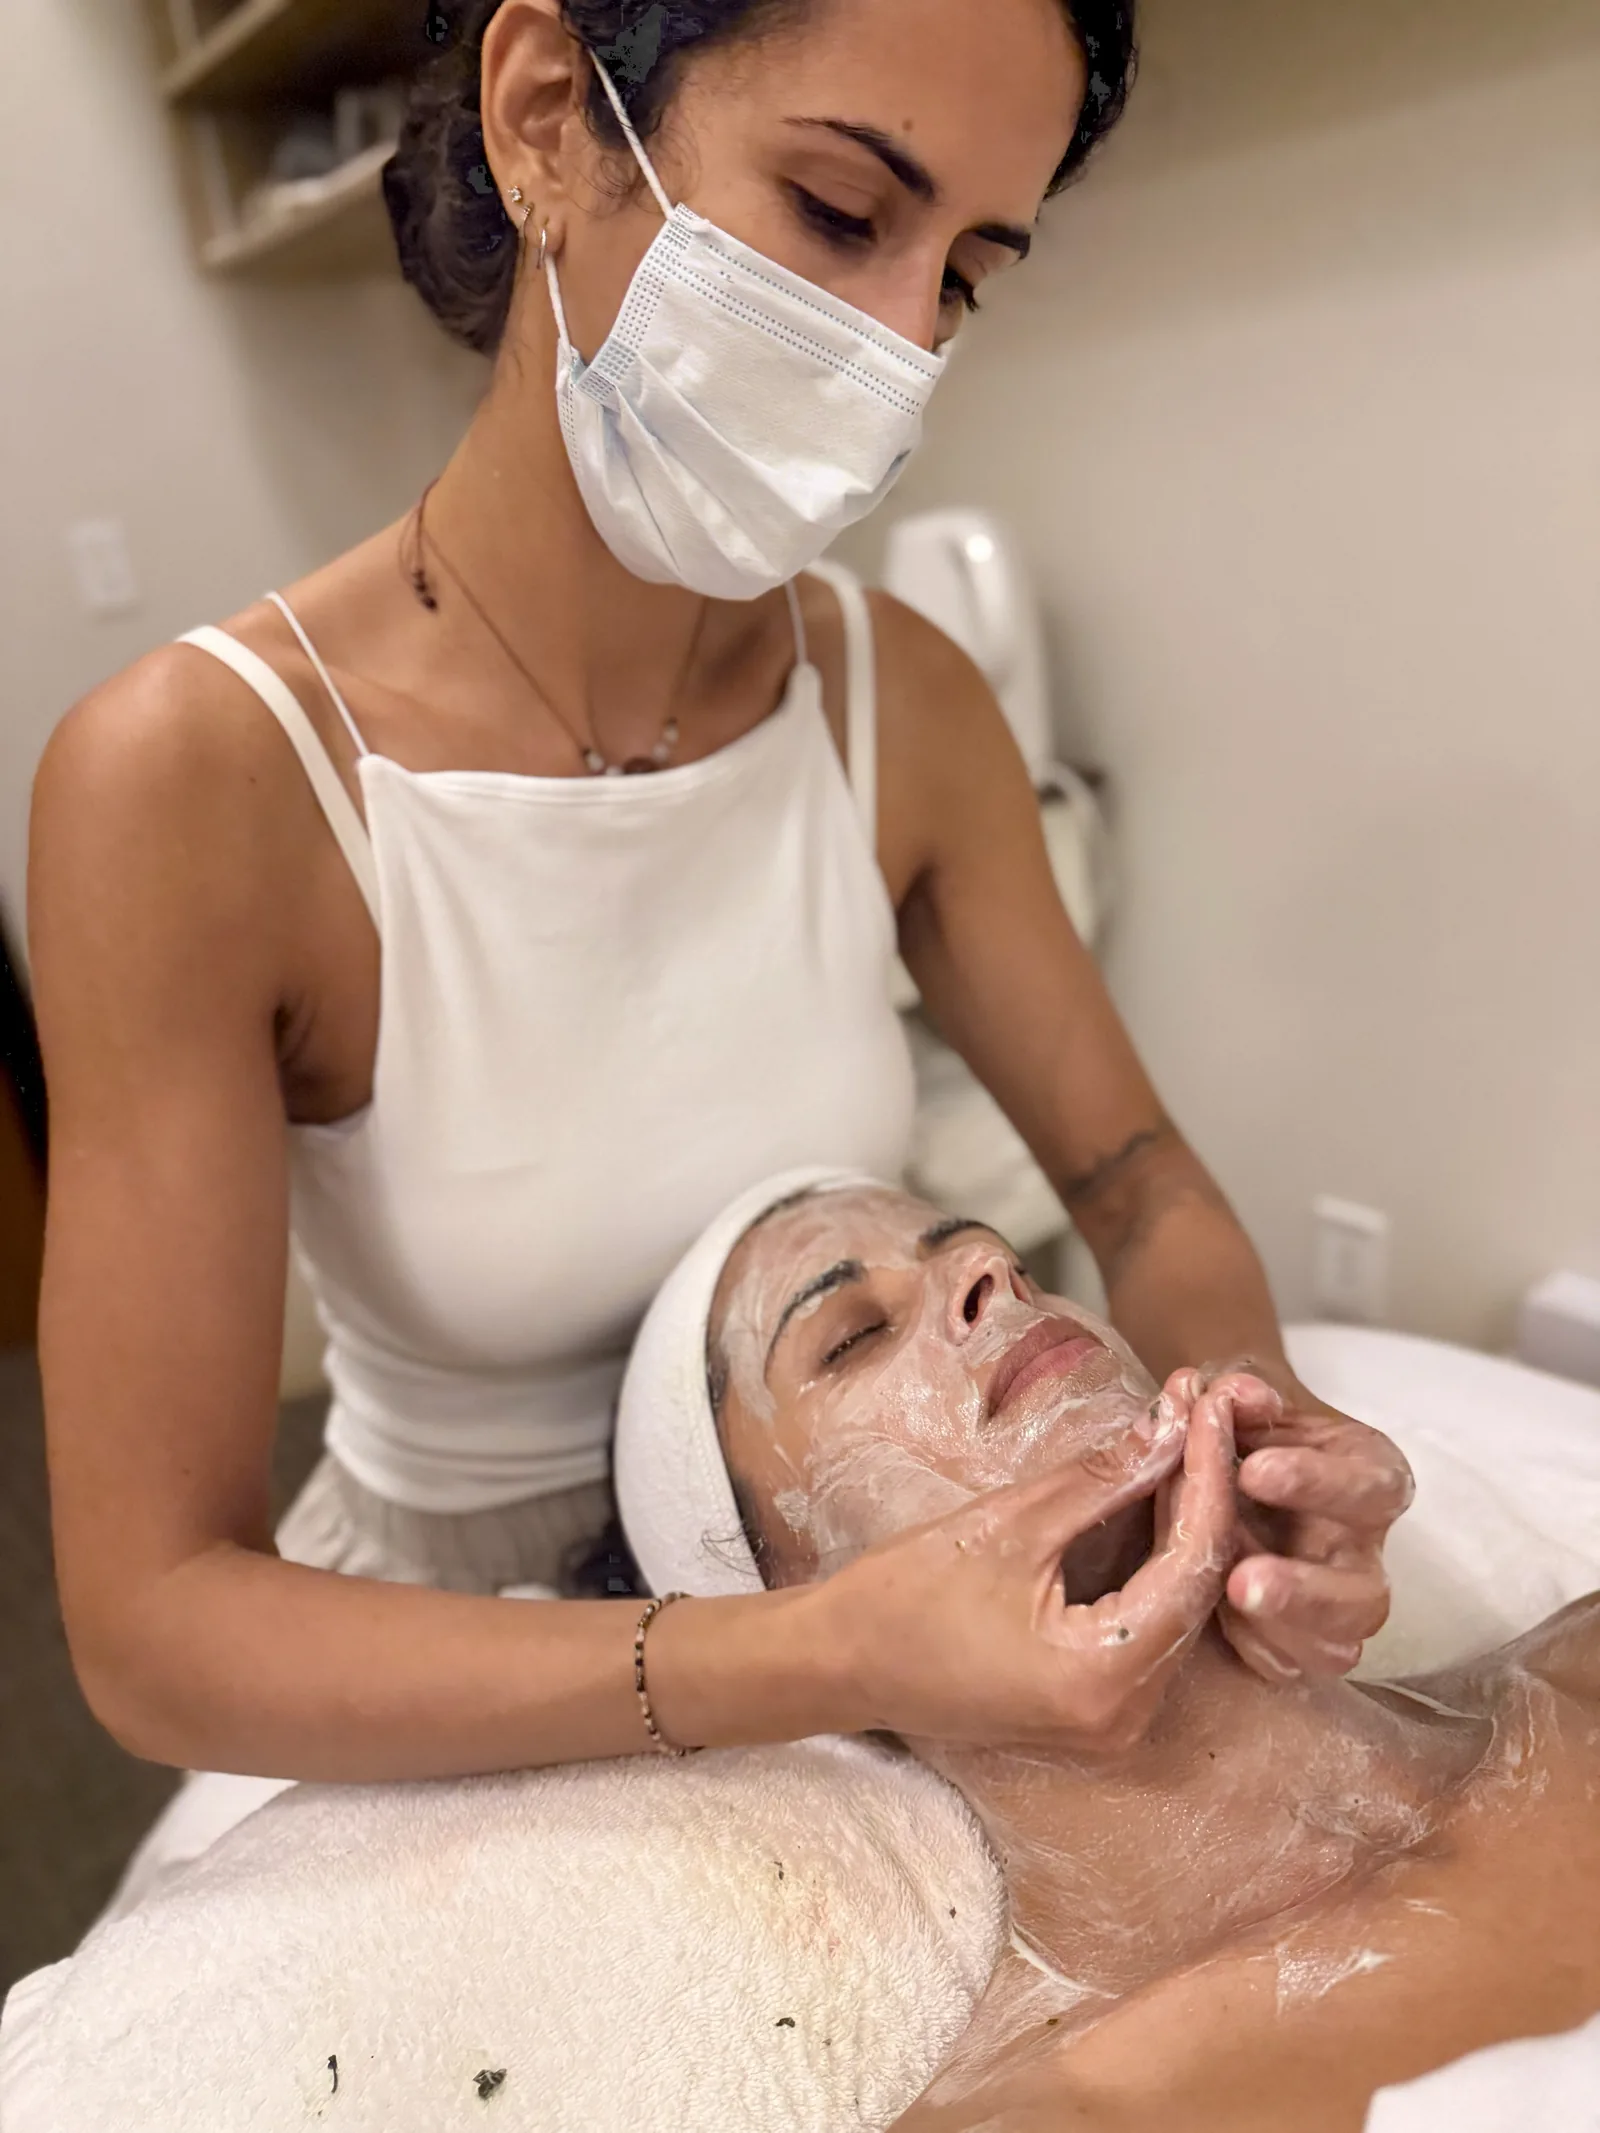
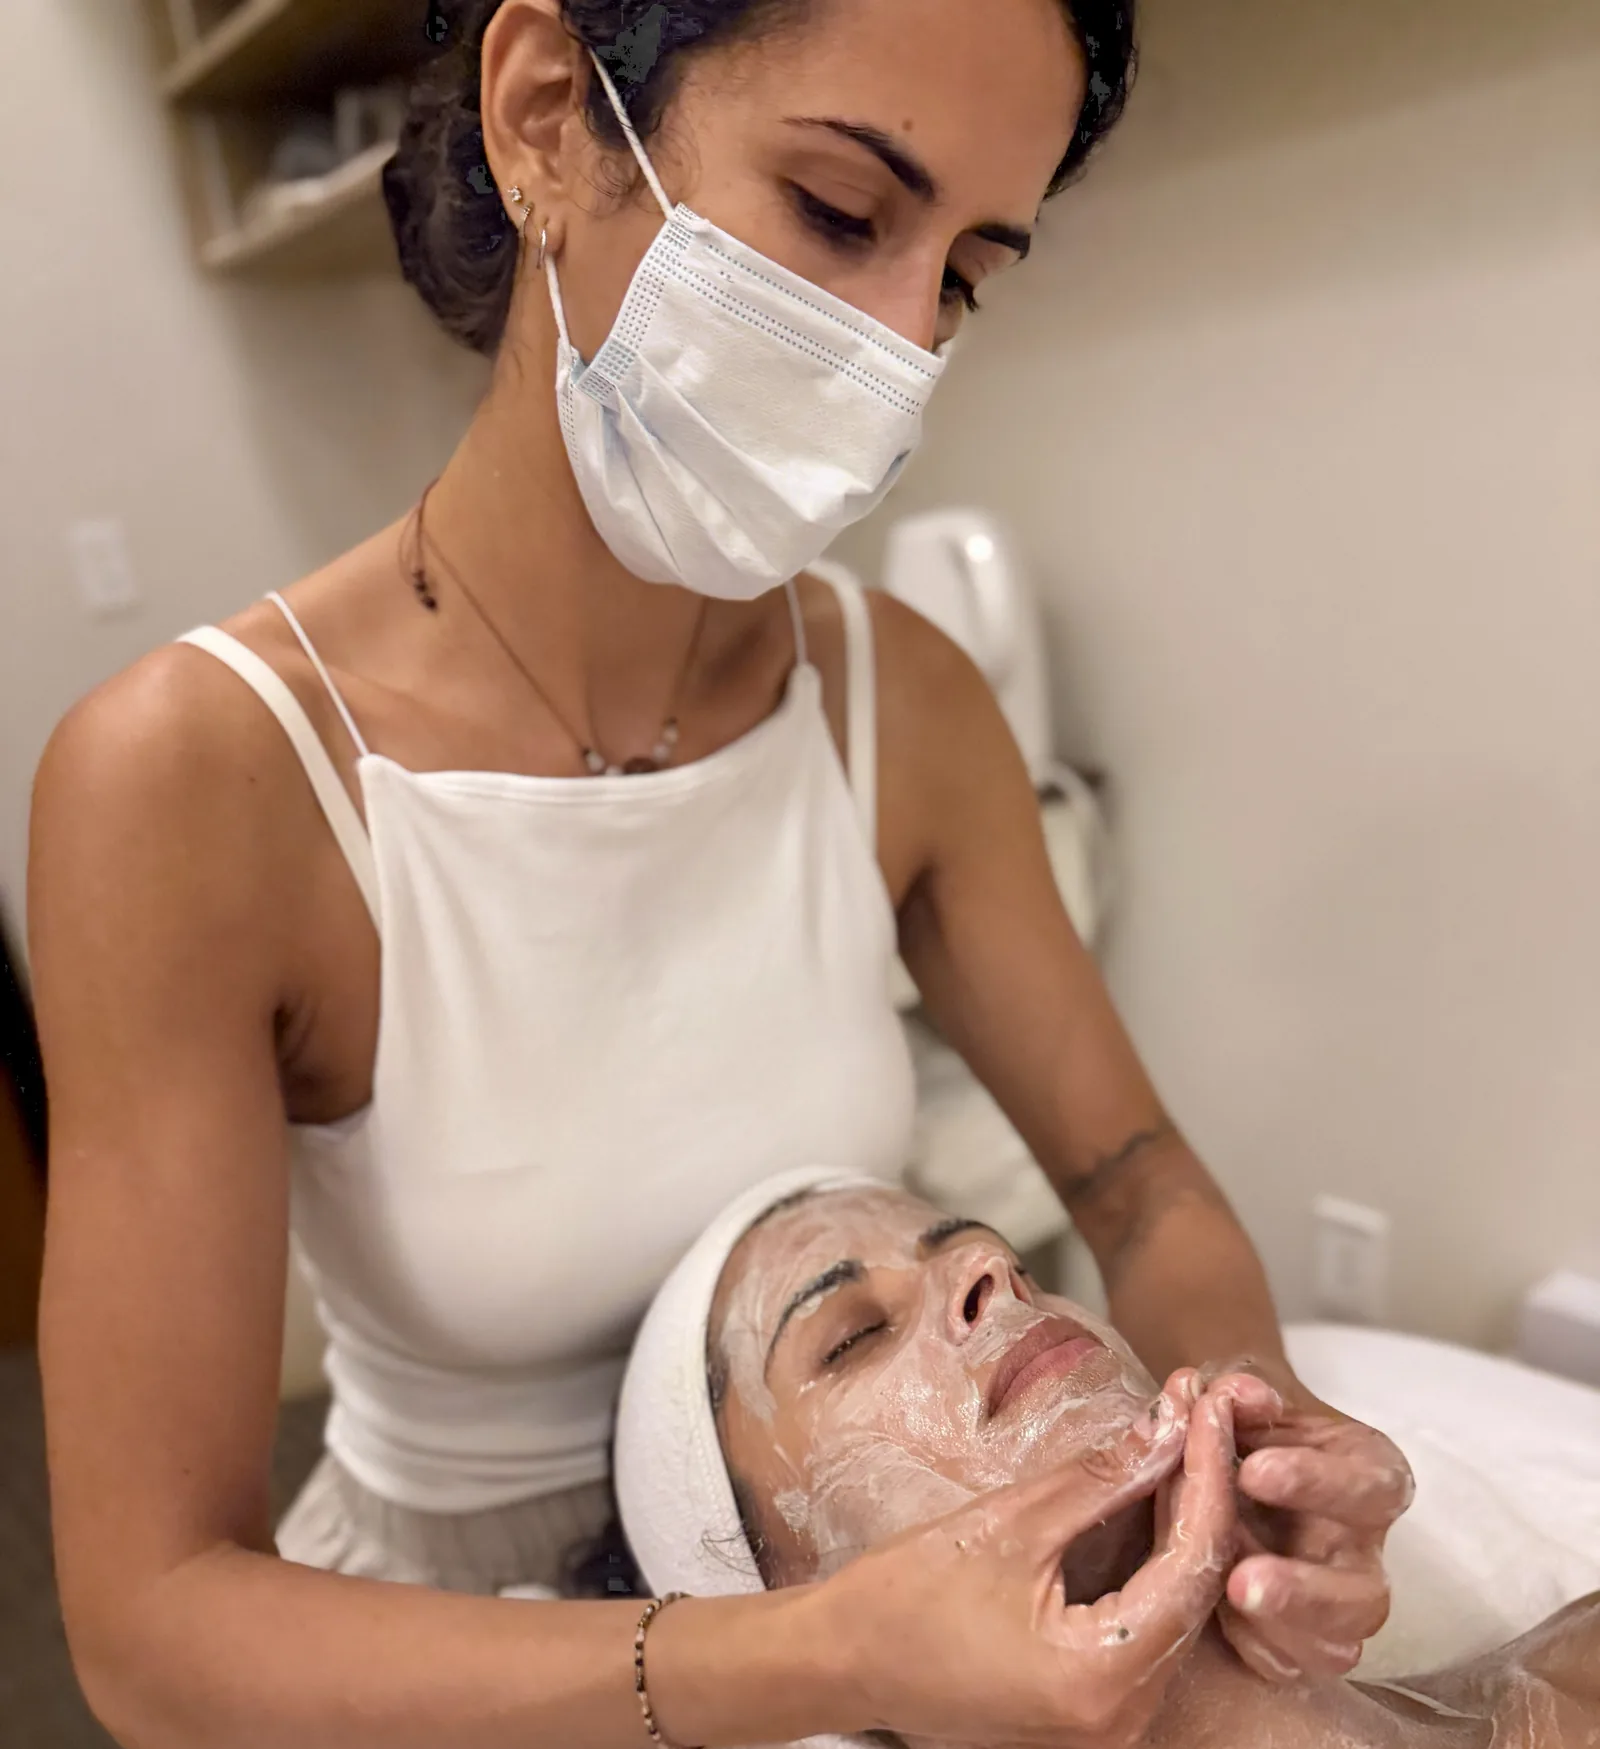
pop-up: enquadramento da foto refeito, e legenda do Sobre sem orfa no mobile
ENQUADRAMENTO (critica do Gabriel: "cortada demais, pouco do rosto da
cliente e quase nada do rosto da Nikolle"). Medido antes de mexer: os dois
rostos ficam empilhados e ocupam 78% da altura da foto, enquanto a janela
do mobile mostrava so 56% dela. Nenhum object-position resolve isso, entao
mudaram a proporcao do asset e a janela:

- o asset perdeu os 18% de rodape morto (toalha e corpo) no proprio
  pipeline, via cropBottom em prepare-images.mjs, e a proporcao foi de
  0.750 para 0.915. Cortar as laterais seria o erro intuitivo: deixaria a
  foto mais vertical e pioraria o caso.
- no mobile o card passou a ter altura definida e a fotografia ocupa o que
  sobra depois do texto, com piso e teto. Ela cresce no aparelho grande e
  recua no pequeno sem breakpoint, e como o texto nunca e espremido o CTA
  continua sempre na tela.
- ancora no topo: se a tela for curta demais para os dois rostos, quem fica
  e o da Nikolle, que foi o pedido dela. Os respiros do texto em clamp de
  svh devolvem ~30px a foto em tela curta sem mudar nada em tela alta.
- no desktop a coluna da foto ganhou piso de 560px, a altura que a
  proporcao pede.

Medido depois: 99.7% da foto visivel a 390x844 (era ~56%) e 98.9% a
1440x900, com os dois rostos inteiros nos dois.

LEGENDA DO SOBRE: no mobile "Coach" caia sozinha na segunda linha. Entrou
text-balance, que reparte as duas linhas por medida e quebra no "and", que
e onde a frase se divide em sentido (sao duas credenciais). No desktop ela
[…]

diff --git a/components/ui/WelcomeGift.tsx b/components/ui/WelcomeGift.tsx
@@ -179,10 +179,13 @@ export function WelcomeGift() {
             animate={{ opacity: 1, y: 0, scale: 1 }}
             exit={{ opacity: 0, y: 0, scale: 1 }}
             transition={{ duration: reduced ? 0.3 : 0.8, ease: EASE }}
-            // MOBILE: flex-coluna com a foto em altura FIXA e a carta rolável
-            // (linha de grid em % contra max-h estoura e corta o CTA — medido).
-            // DESKTOP: grid de 2 colunas, foto esticando na linha inteira.
-            className="relative flex max-h-[min(94svh,720px)] w-full max-w-[420px] flex-col overflow-hidden rounded-[4px] border border-olive/20 bg-linen shadow-[0_32px_90px_-26px_color-mix(in_srgb,var(--graphite)_46%,transparent)] min-[861px]:grid min-[861px]:max-h-[min(88svh,660px)] min-[861px]:max-w-[1040px] min-[861px]:grid-cols-[1fr_1.05fr]"
+            // MOBILE: o card tem ALTURA DEFINIDA e a foto ocupa o que sobra
+            // depois do texto (que nunca é espremido, então o CTA nunca cai
+            // fora). Assim a fotografia cresce no aparelho grande e recua no
+            // pequeno sozinha, sem breakpoint de altura. Altura fixa em vez de
+            // max-h porque com max-h a foto não tem contra o que crescer.
+            // DESKTOP: grid de 2 colunas, foto na linha inteira.
+            className="relative flex h-[min(94svh,760px)] w-full max-w-[420px] flex-col overflow-hidden rounded-[4px] border border-olive/20 bg-linen shadow-[0_32px_90px_-26px_color-mix(in_srgb,var(--graphite)_46%,transparent)] min-[861px]:grid min-[861px]:h-auto min-[861px]:max-h-[min(88svh,660px)] min-[861px]:max-w-[1040px] min-[861px]:grid-cols-[1fr_1.05fr]"
           >
             {/* Linha d'água que se desenha no topo (forma-assinatura). */}
             <motion.span
@@ -219,8 +222,16 @@ export function WelcomeGift() {
             {/* A FOTOGRAFIA: a foto de atendimento que ela enviou para o pop-up
                 (máscara editada para branca). Metade da peça no desktop, topo
                 alto no mobile. A câmera assenta devagar (scale 1.045 -> 1) e a
-                moldura de fio d'água recuada é a gramática do hero. */}
-            <div className="relative h-[min(34svh,290px)] shrink-0 overflow-hidden min-[861px]:h-auto">
+                moldura de fio d'água recuada é a gramática do hero.
+                ENQUADRAMENTO (medido no asset, 10/08): os dois rostos ficam
+                empilhados do topo até ~78% da altura da foto original, e por
+                isso o recorte da fonte tira o rodapé morto (ver
+                prepare-images.mjs) e a janela ANCORA NO TOPO: se a tela for
+                curta demais para os dois, quem fica é o rosto da Nikolle, que
+                foi o pedido dela. No desktop o piso de 560px dá à coluna a
+                altura que a proporção da foto pede, então ela aparece quase
+                inteira. */}
+            <div className="relative max-h-[420px] min-h-[150px] flex-1 overflow-hidden min-[861px]:max-h-none min-[861px]:min-h-[560px] min-[861px]:flex-none">
               <motion.div
                 initial={{ scale: reduced ? 1 : 1.045 }}
                 animate={{ scale: 1 }}
@@ -232,8 +243,8 @@ export function WelcomeGift() {
                   alt="Nikolle performing a facial treatment."
                   fill
                   loading="eager"
-                  sizes="(max-width: 860px) 100vw, 500px"
-                  className="object-cover object-[center_30%]"
+                  sizes="(max-width: 860px) 100vw, 520px"
+                  className="object-cover object-top"
                 />
               </motion.div>
               {/* Moldura recuada de fio d'água sobre a foto (linen 55%). */}
@@ -243,8 +254,12 @@ export function WelcomeGift() {
               />
             </div>
 
-            {/* A CARTA: papel de linho, muito ar, a oferta como centro. */}
-            <div className="flex min-h-0 flex-col justify-center overflow-y-auto px-7 py-7 min-[861px]:px-14 min-[861px]:py-12">
+            {/* A CARTA: papel de linho, muito ar, a oferta como centro.
+                Os respiros do mobile são FLUIDOS em svh (nunca menores que o
+                toque pede): em tela alta valem o mesmo de antes, e em tela
+                curta devolvem ~30px para a fotografia, que é a diferença
+                entre ver ou não o rosto da cliente num iPhone SE. */}
+            <div className="flex min-h-0 flex-col justify-center overflow-y-auto px-7 py-[clamp(20px,3.3svh,28px)] min-[861px]:px-14 min-[861px]:py-12">
               <h2
                 id="welcome-gift-title"
                 className="font-display text-[clamp(26px,6.4vw,31px)] leading-[1.14] text-graphite min-[861px]:text-[clamp(30px,3vw,40px)]"
@@ -261,7 +276,7 @@ export function WelcomeGift() {
                 </span>
               </h2>
 
-              <p className="mt-4 max-w-[46ch] text-[14.5px] leading-[1.7] text-graphite-soft min-[861px]:mt-6 min-[861px]:text-[15.5px] min-[861px]:leading-[1.75]">
+              <p className="mt-[clamp(12px,1.9svh,16px)] max-w-[46ch] text-[14.5px] leading-[1.7] text-graphite-soft min-[861px]:mt-6 min-[861px]:text-[15.5px] min-[861px]:leading-[1.75]">
                 {
                   "Whether you're seeking holistic skincare or a Nervous System Reset, each session is designed to support your skin, body, and overall well-being."
                 }
@@ -275,13 +290,13 @@ export function WelcomeGift() {
                 initial={{ scaleX: reduced ? 1 : 0 }}
                 animate={{ scaleX: 1 }}
                 transition={{ duration: 0.9, ease: EASE, delay: reduced ? 0 : 0.75 }}
-                className="mt-5 block h-px w-[44px] origin-left bg-sage min-[861px]:mt-7"
+                className="mt-[clamp(14px,2.4svh,20px)] block h-px w-[44px] origin-left bg-sage min-[861px]:mt-7"
               />
-              <p className="mt-4 font-voice text-[clamp(19px,4.8vw,22px)] italic text-olive min-[861px]:text-[clamp(21px,2.2vw,25px)]">
+              <p className="mt-[clamp(12px,1.9svh,16px)] font-voice text-[clamp(19px,4.8vw,22px)] italic text-olive min-[861px]:text-[clamp(21px,2.2vw,25px)]">
                 Enjoy 20% off your first visit.
               </p>
 
-              <div className="mt-6 min-[861px]:mt-9">
+              <div className="mt-[clamp(16px,2.8svh,24px)] min-[861px]:mt-9">
                 <TideButton
                   size="lg"
                   className="w-full min-[861px]:w-auto min-[861px]:px-10"

diff --git a/components/sections/About.tsx b/components/sections/About.tsx
@@ -83,9 +83,14 @@ export function About() {
           </div>
           {/* Legenda sob o retrato (copy enviada pela Nikolle 09/08, roteiro.md
               Seção 6). Voz itálica em OLIVE (precedente da linha 'Coming soon'
-              da S3: sage a 16px reprova AA sobre o linho; olive dá ~5:1). */}
+              da S3: sage a 16px reprova AA sobre o linho; olive dá ~5:1).
+              QUEBRA (10/08): no mobile a frase caía com 'Coach' órfão na 2ª
+              linha. text-balance reparte as duas linhas por medida e cai
+              naturalmente no 'and', que é onde a frase se divide em sentido
+              (são DUAS credenciais). No desktop a coluna é larga e ela segue
+              em uma linha só, então o balanceamento não tem efeito lá. */}
           <p
-            className="s6-rise mt-4 text-center font-voice text-[16px] font-medium leading-[1.45] text-olive italic min-[881px]:text-left"
+            className="s6-rise mt-4 text-center text-balance font-voice text-[16px] font-medium leading-[1.45] text-olive italic min-[881px]:text-left"
             style={delay(70)}
           >
             Holistic Skincare Practitioner and Nutritional Health Coach

diff --git a/design.md b/design.md
@@ -209,10 +209,11 @@ NAV LABELS (aprovados pelo Gabriel): Philosophy · Treatments · Program · Abou
 - **SERVIÇOS RESTAURADOS (3-RESTAURADA).** O trilho + carta de 08/08 (mudança NOSSA, não pedida por ela) foi rejeitado: "quero exatamente como estava... Signature facial, advanced treatments e Nervous system reset, um abaixo do outro, e quando clica aparece a descrição... o fundo com a mesma tonalidade do restante do site, sem esse bege mais escuro". Voltou o ACORDEÃO aprovado em 30/07 (recuperado do commit 97e89ed, componente + CSS), com 2 diferenças: preços novos do NSR ($130/$115/Marma Monthly Sessions $99, revisados por ela 09/08) e a imagem-âncora nova. TransitionPanel.tsx ficou órfão (podar = decisão do Gabriel). LIÇÃO DE MÉTODO (a cara da onda): crítica interna não autoriza refazer seção que a CLIENTE já aprovou; reforma estética dessas seções só com ela no circuito.
 - **IMPRENSA RESTAURADA (5b-RESTAURADO).** A cena editorial de scroll (340svh) foi rejeitada ("gosto da versão antiga", com print do interlúdio estático). Voltou o INTERLÚDIO ESTÁTICO de d92717c inteiro (componente + tokens --sand-deep/grão/vinheta + copy v1 no roteiro). Era o risco registrado em 30/07 (pin longo = padrão que ela já tinha reprovado na S2); confirmou-se. Assets da cena de scroll seguem em public/images/press/ sem uso.
 - **FOTO DOS SERVIÇOS (item 4 da lista dela).** A versão EDITADA chegou (cena-atendimento-editada.webp, 1082x1350): entra INTEIRA, sem recorte, com o quadro na proporção natural do asset nos dois breakpoints.
-- **POP-UP REDESENHADO DE VERDADE (1b-v3).** Ela reprovou o redesign de 30/07 ("manteve praticamente como estava, além de foto repetida"). Agora: a foto é a que ELA enviou para o pop-up (popup-atendimento.webp, máscara dessaturada de azul para BRANCA por código, original HEIC em assets/photos/), coluna inteira no desktop (max-w 1040px), convite de tela quase cheia no mobile (foto 34svh no topo), papel de LINHO, moldura de fio d'água recuada sobre a foto (gramática do hero), linha d'água curta antes da oferta em itálico olive. CTA abre o formulário de agendamento. Gatilhos/copy/a11y preservados. ARMADILHA NOVA registrada: linha de grid em % contra max-h estoura o painel e corta o CTA; mobile é flex-coluna com foto de altura fixa + carta rolável.
+- **POP-UP REDESENHADO DE VERDADE (1b-v3).** Ela reprovou o redesign de 30/07 ("manteve praticamente como estava, além de foto repetida"). Agora: a foto é a que ELA enviou para o pop-up (popup-atendimento.webp, máscara dessaturada de azul para BRANCA por código, original HEIC em assets/photos/), coluna inteira no desktop (max-w 1040px), convite de tela quase cheia no mobile, papel de LINHO, moldura de fio d'água recuada sobre a foto (gramática do hero), linha d'água curta antes da oferta em itálico olive. CTA abre o formulário de agendamento. Gatilhos/copy/a11y preservados. ARMADILHA NOVA registrada: linha de grid em % contra max-h estoura o painel e corta o CTA.
+- **1b-ENQUADRAMENTO (correção 10/08, 2ª passada; crítica do Gabriel: "cortada demais, pouco do rosto da cliente e quase nada do rosto da Nikolle").** DIAGNÓSTICO MEDIDO, não ajuste de gosto: a foto é vertical com DOIS ROSTOS EMPILHADOS (Nikolle do topo a ~24% da altura, a cliente de 54% a 77%), ou seja o assunto ocupa 78% da altura; a janela do mobile era larga e baixa (390x287) e mostrava só 56% da altura da foto. Nenhum object-position resolve: faltava faixa. LEI QUE SAI DISSO: quando o assunto é vertical e a janela é larga, quem tem que mudar é a JANELA ou a PROPORÇÃO DO ASSET, nunca a âncora. As três curas, nesta ordem: (a) o asset perdeu os 18% de rodapé morto (toalha/corpo) no próprio pipeline (`cropBottom` em prepare-images.mjs, reproduzível), e a proporção foi de 0.750 para 0.915 — cortar as LATERAIS seria o erro intuitivo, porque deixa a foto mais vertical e piora; (b) no mobile o card passou a ter ALTURA DEFINIDA (min(94svh,760px)) com a fotografia ocupando o que sobra do texto (flex-1, piso 150 e teto 420), então ela cresce no aparelho grande e recua no pequeno sem breakpoint, e o texto nunca é espremido, o que mantém o CTA sempre na tela; (c) âncora no TOPO, porque se a tela for curta demais para os dois rostos quem fica é o da Nikolle, que foi o pedido dela. Respiros do texto em clamp de svh devolvem ~30px à foto em tela curta sem mudar nada em tela alta. No desktop a coluna ganhou piso de 560px, que é a altura que a proporção da foto pede. MEDIDO: a 390x844 a foto aparece 99.7% inteira (era ~56%) e a 1440x900 98.9%; a 375x667 (SE/8) mostra a Nikolle inteira e a cliente parcial, degradação aceitável e declarada.
 - **HERO: logo +10%** nos dois breakpoints (pedido: "um pouquinho mais visível p que dê p ler skin, nourishment, balance"; mobile 40.5vw, entre o 37vw de 30/07 e o 44vw que gritava).
 - **CORTINA: links um passo menores** (clamp 24-33px, era 30-44px; pedido: "diminuir o tamanho dessas fontes").
-- **SOBRE:** assinatura Parisienne saiu da página principal e vive DENTRO do Full Story (pedido dela); legenda nova sob o retrato "Holistic Skincare Practitioner and Nutritional Health Coach" (copy enviada por ela, registrada no roteiro; itálico OLIVE, não sage, por AA a 16px).
+- **SOBRE:** assinatura Parisienne saiu da página principal e vive DENTRO do Full Story (pedido dela); legenda nova sob o retrato "Holistic Skincare Practitioner and Nutritional Health Coach" (copy enviada por ela, registrada no roteiro; itálico OLIVE, não sage, por AA a 16px). QUEBRA (correção 10/08): no mobile 'Coach' caía órfão na 2ª linha; entrou `text-balance`, que reparte as duas linhas por medida e cai naturalmente no 'and' ("Holistic Skincare Practitioner" / "and Nutritional Health Coach"), que é onde a frase se divide em SENTIDO, já que são duas credenciais. No desktop a coluna é larga e a frase segue em uma linha só, então o balanceamento não age. Preferido a diminuir a fonte: encolher texto para consertar quebra é remendo, e a legenda perderia presença ao lado do retrato.
 - **FORMULÁRIO DE AGENDAMENTO implementado** (ver bloco Booking abaixo).
 
 ## Booking (a ação única)
